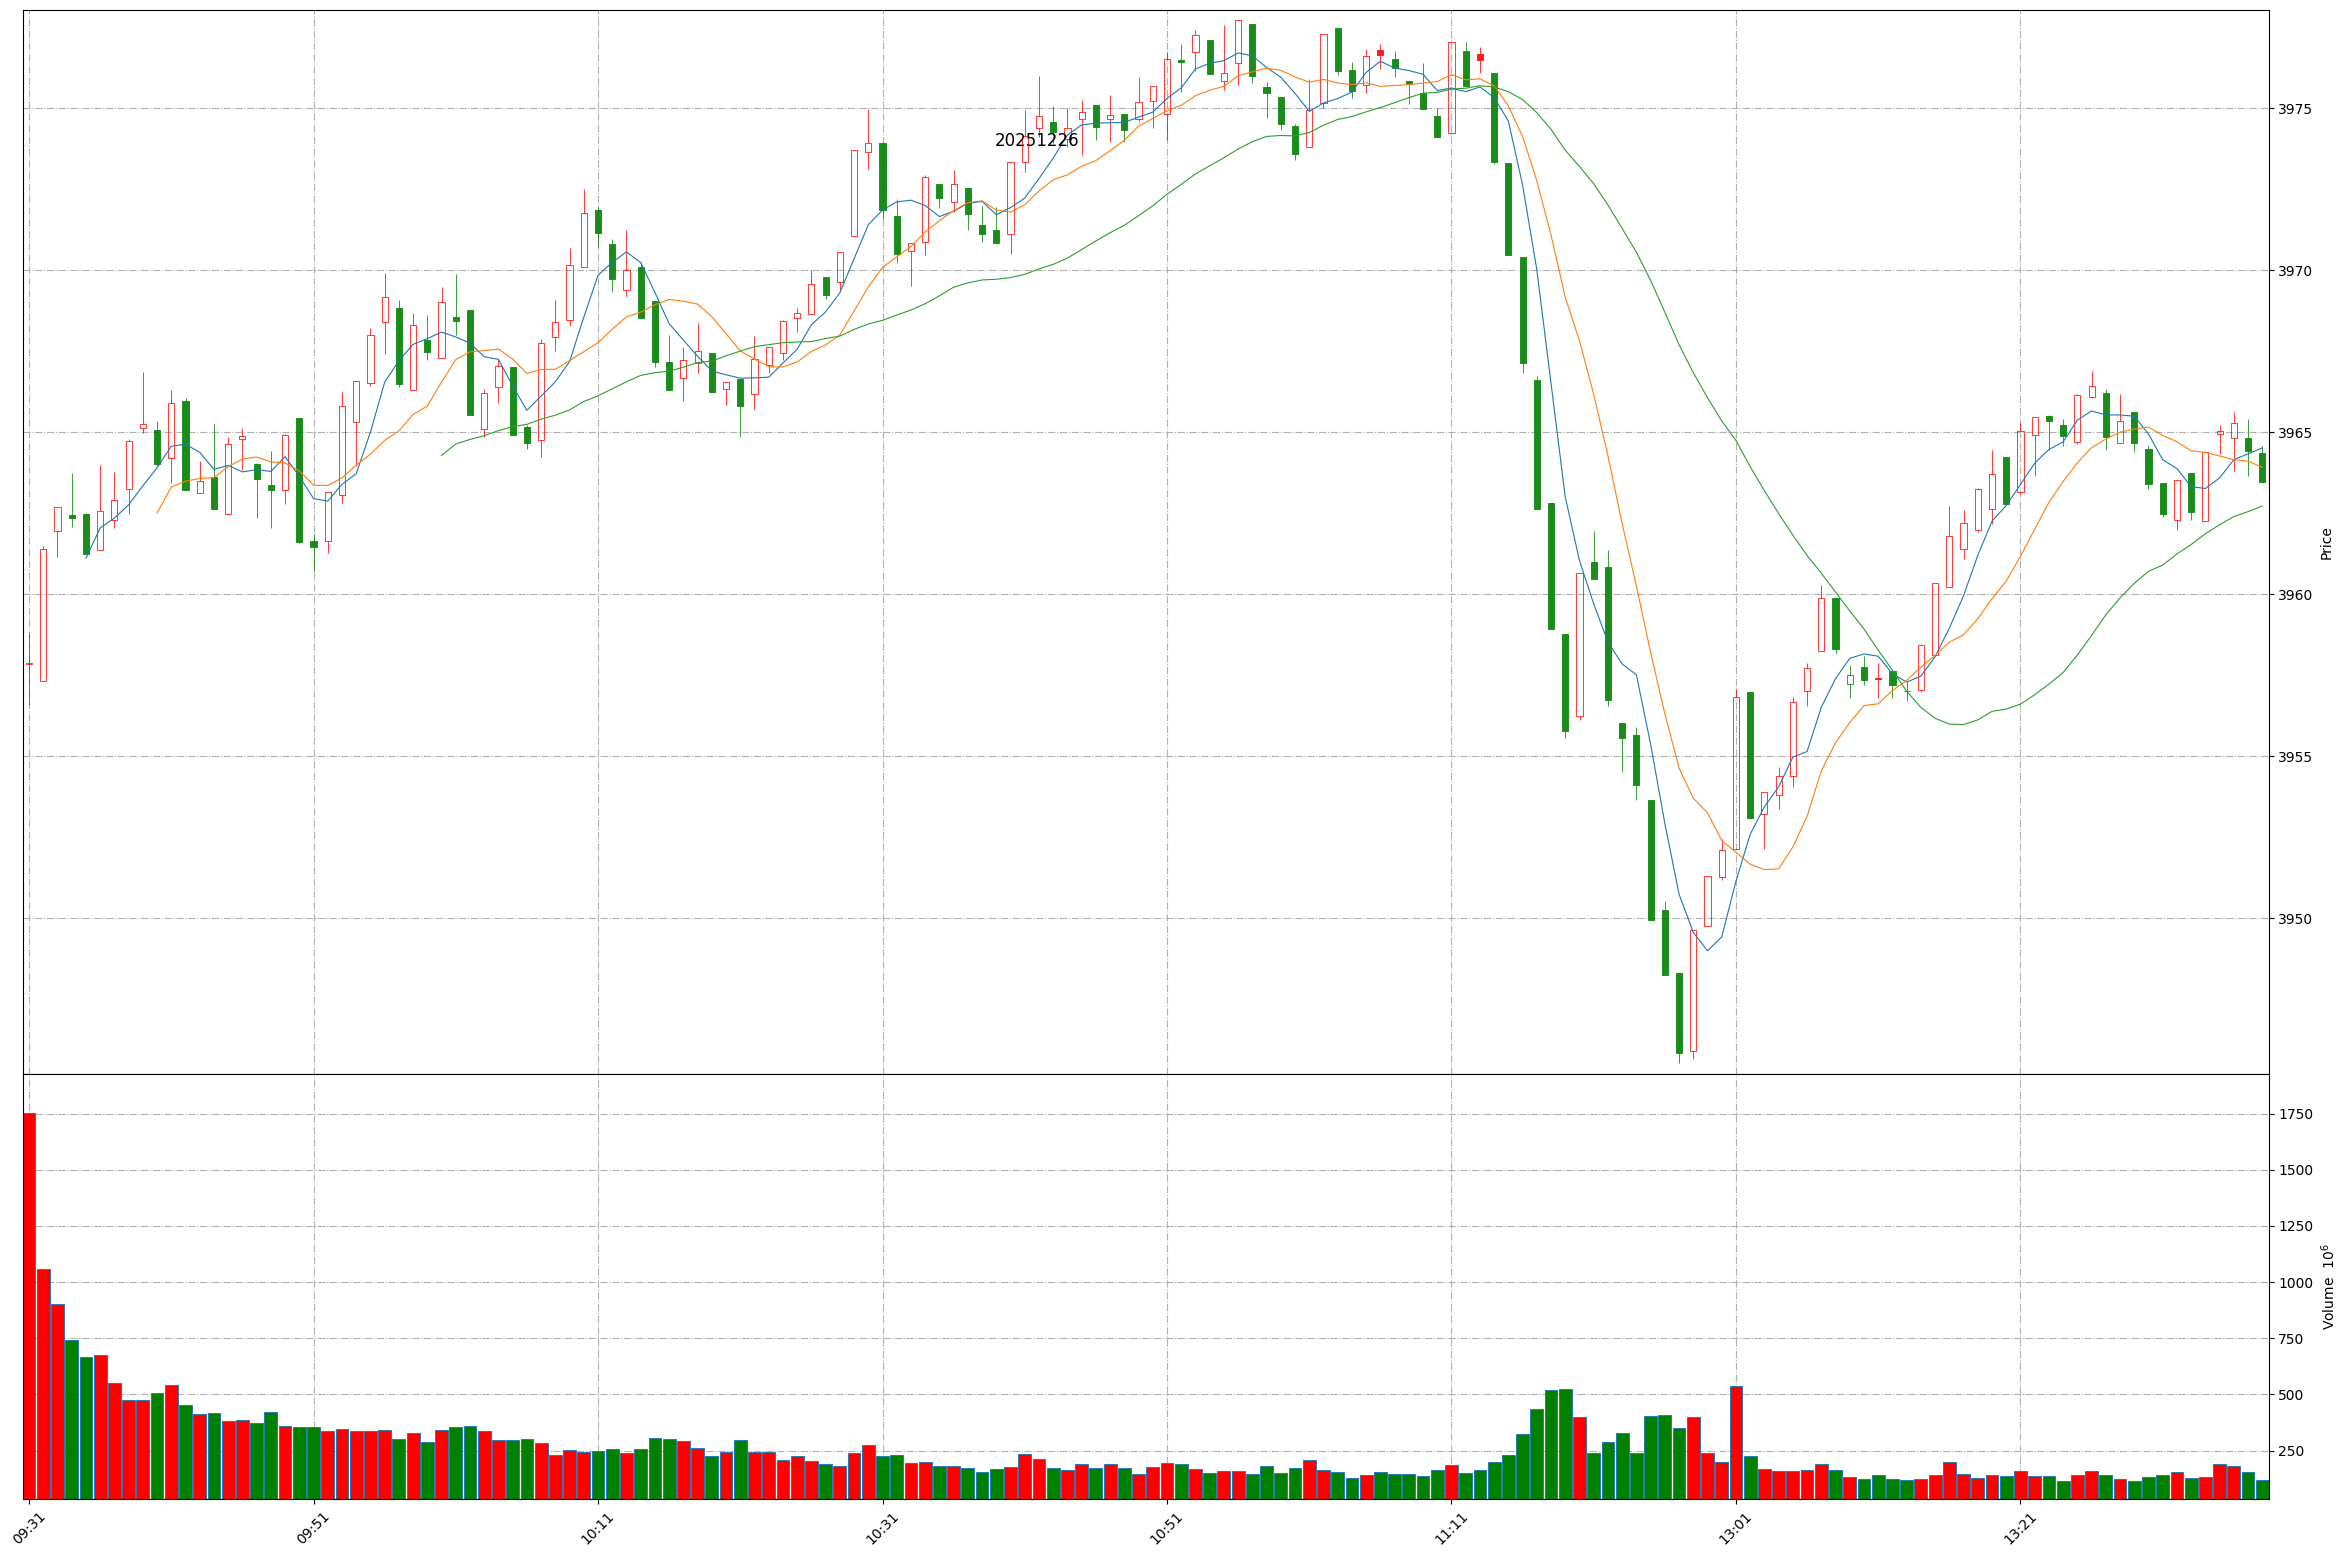
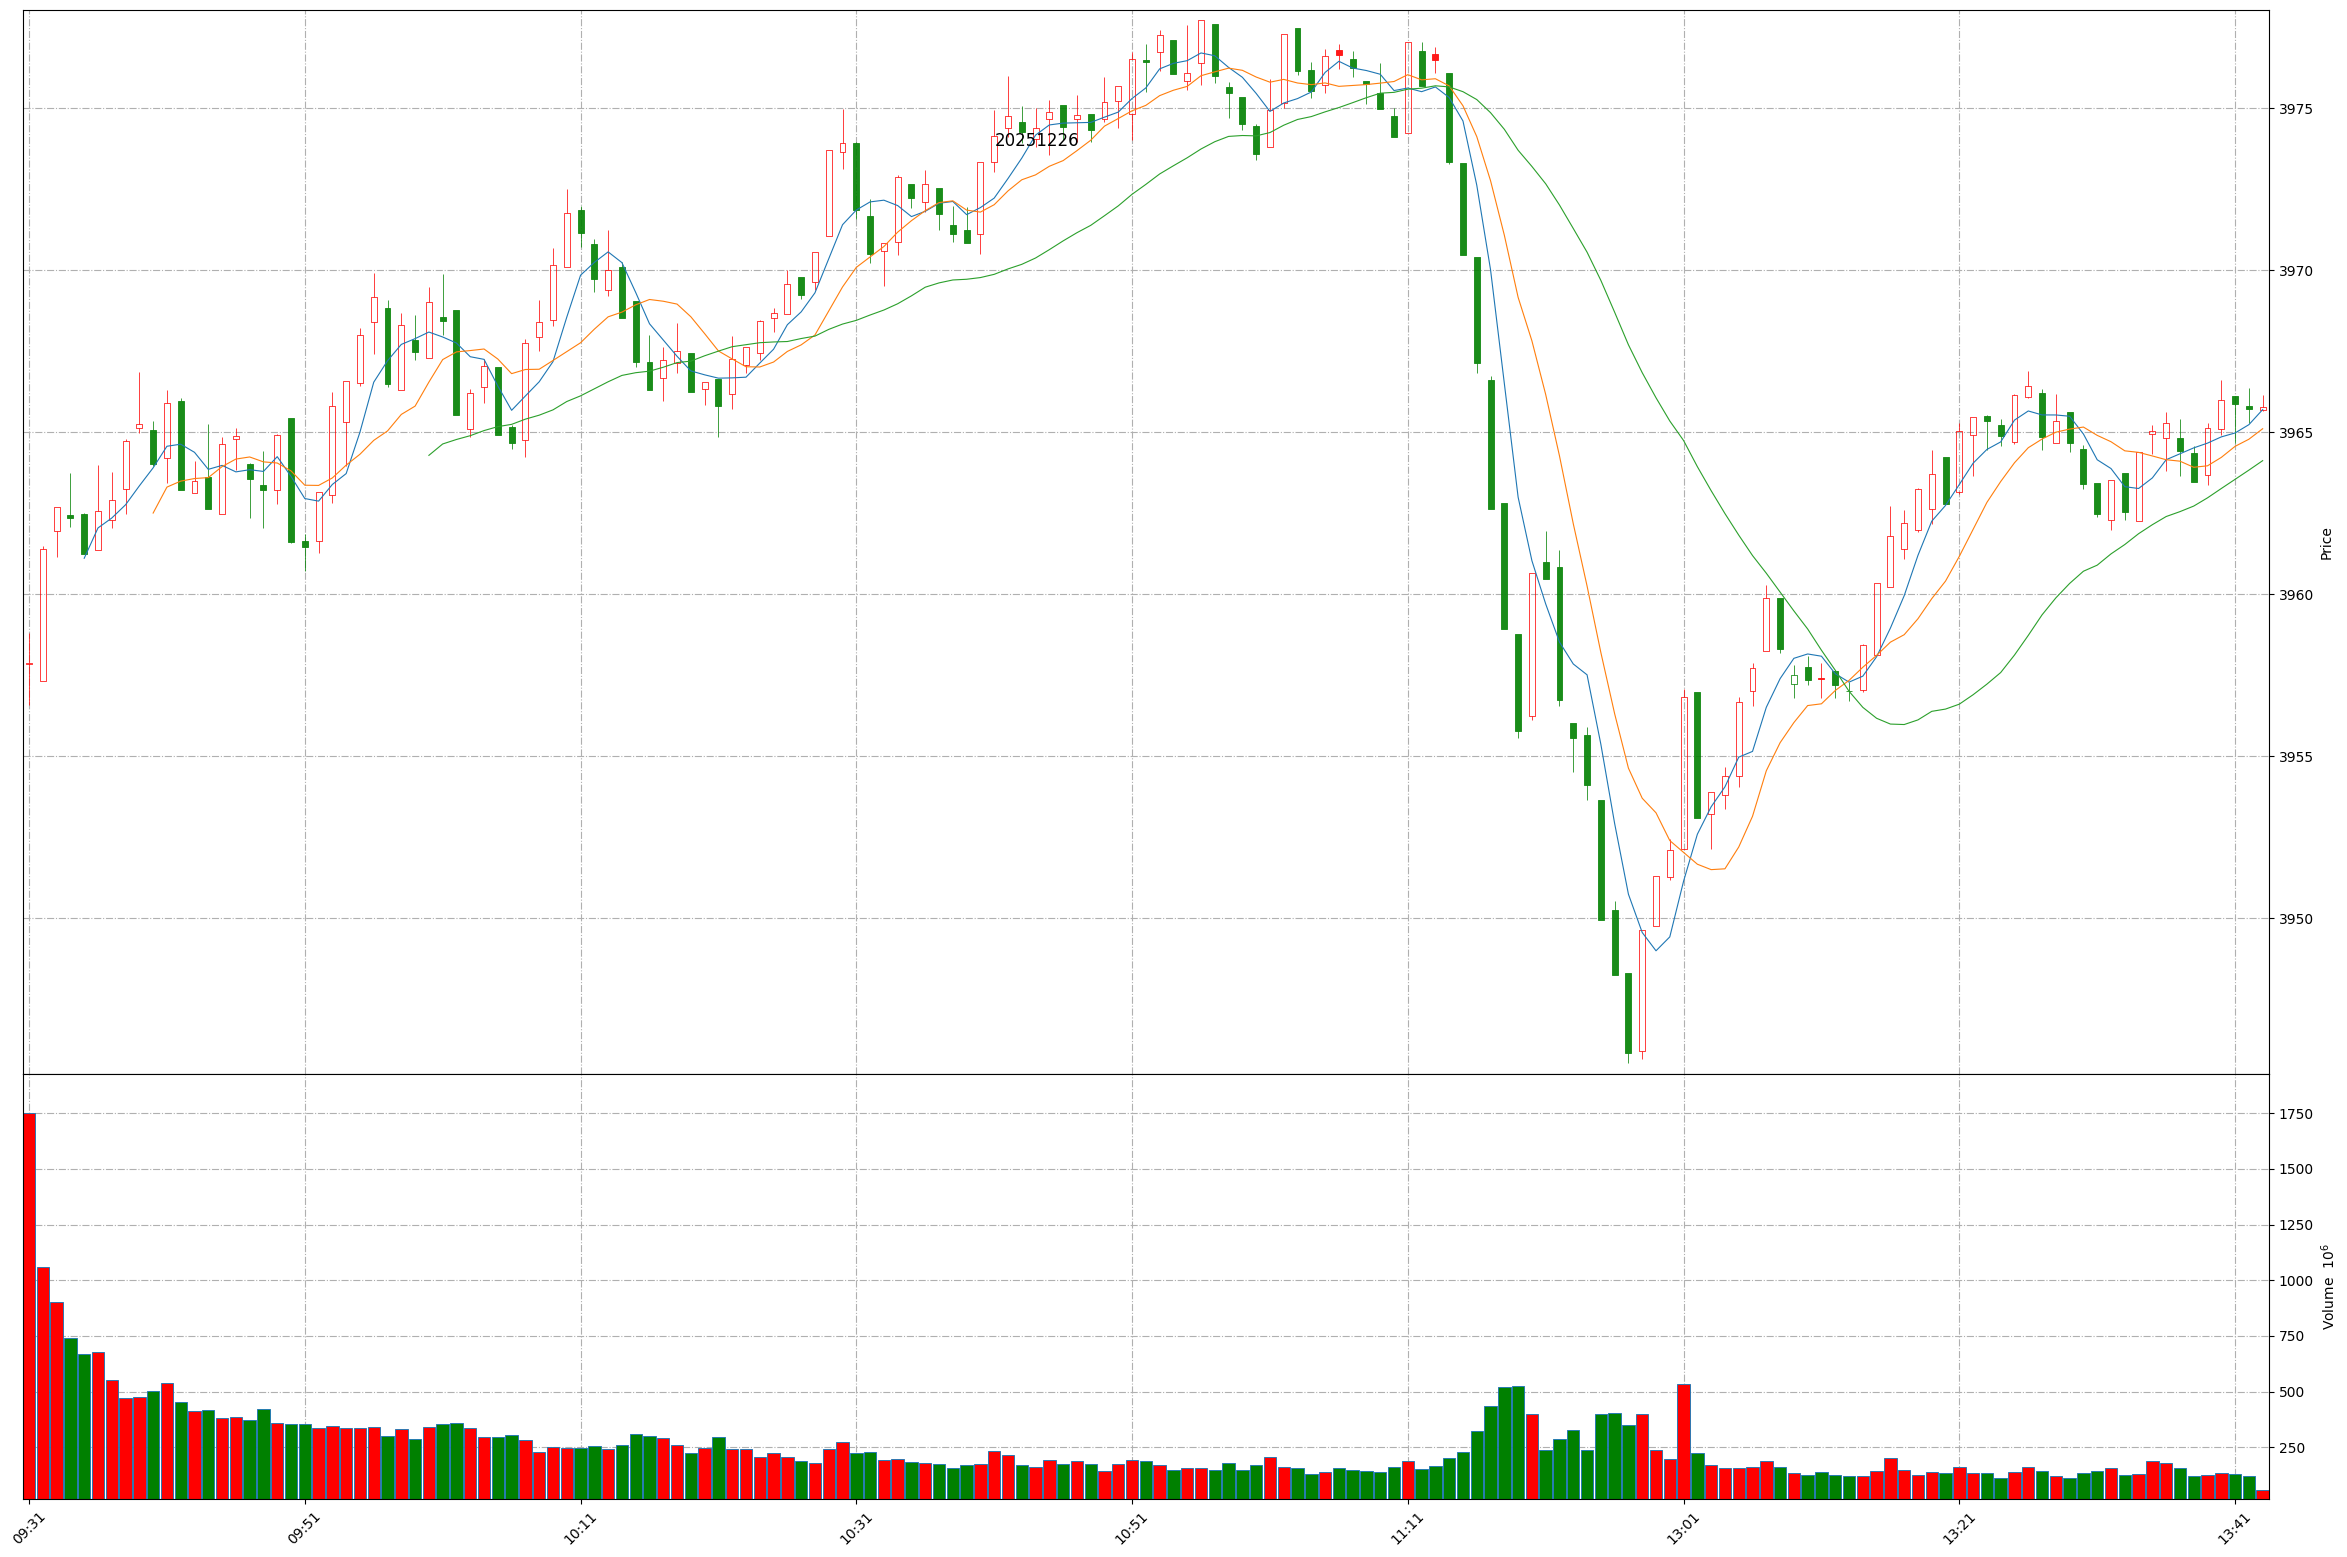
Github action update at 2025-12-26 13:42:49.

diff --git a/README.md b/README.md
@@ -1,11 +1,11 @@
 
 # Daily-A-share-market-quotes 每日 A 股指数（5min 更新）- 20251226
 
-### 上证指数 20251226 13:38
+### 上证指数 20251226 13:42
 ![](./fig/2025/12/20251226-sh000001.png)
 
-### 深证成指 20251226 13:38
+### 深证成指 20251226 13:42
 ![](./fig/2025/12/20251226-sz399001.png)
 
-### 北证50 20251226 13:38
+### 北证50 20251226 13:42
 ![](./fig/2025/12/20251226-bj899050.png)
